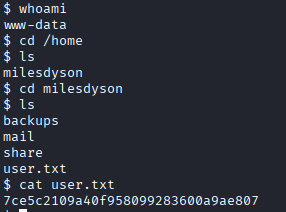
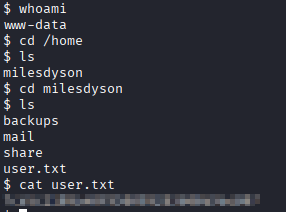
Redact Skynet user flag screenshot

Changed region(s): [[0.0, 0.9057, 0.9231, 0.9906]]

diff --git a/ctf/thm/skynet/Skynet-FR.md b/ctf/thm/skynet/Skynet-FR.md
@@ -347,7 +347,7 @@ cat user.txt
 
 ![Flag utilisateur](screenshots/12-userflag.png)
 
-La valeur du flag n'est pas affichée ici. Le but est de publier la méthode, pas de transformer le README en distributeur automatique de réponses.
+La capture est volontairement floutée à l'endroit où le flag apparaît. Le but est de publier la méthode, pas de transformer le README en distributeur automatique de réponses.
 
 ---
 

diff --git a/ctf/thm/skynet/Skynet-EN.md b/ctf/thm/skynet/Skynet-EN.md
@@ -347,7 +347,7 @@ cat user.txt
 
 ![User flag](screenshots/12-userflag.png)
 
-The flag value is intentionally not printed here. We are publishing a walkthrough, not putting the answer key in a trench coat.
+The screenshot is intentionally blurred where the flag appears. We are publishing a walkthrough, not putting the answer key in a trench coat.
 
 ---
 

diff --git a/ctf/thm/skynet/Notes.md b/ctf/thm/skynet/Notes.md
@@ -428,7 +428,7 @@ http://skynet.thm/45kra24zxs28v3yd/administrator/alerts/alertConfigField.php?url
 
 ![image.png](screenshots/11-shell.png)
 
-- We found our `user.txt` flag!
+- We found our `user.txt` flag! The screenshot below is intentionally blurred where the flag value appears for the public writeup.
 
 ![image.png](screenshots/12-userflag.png)
 
